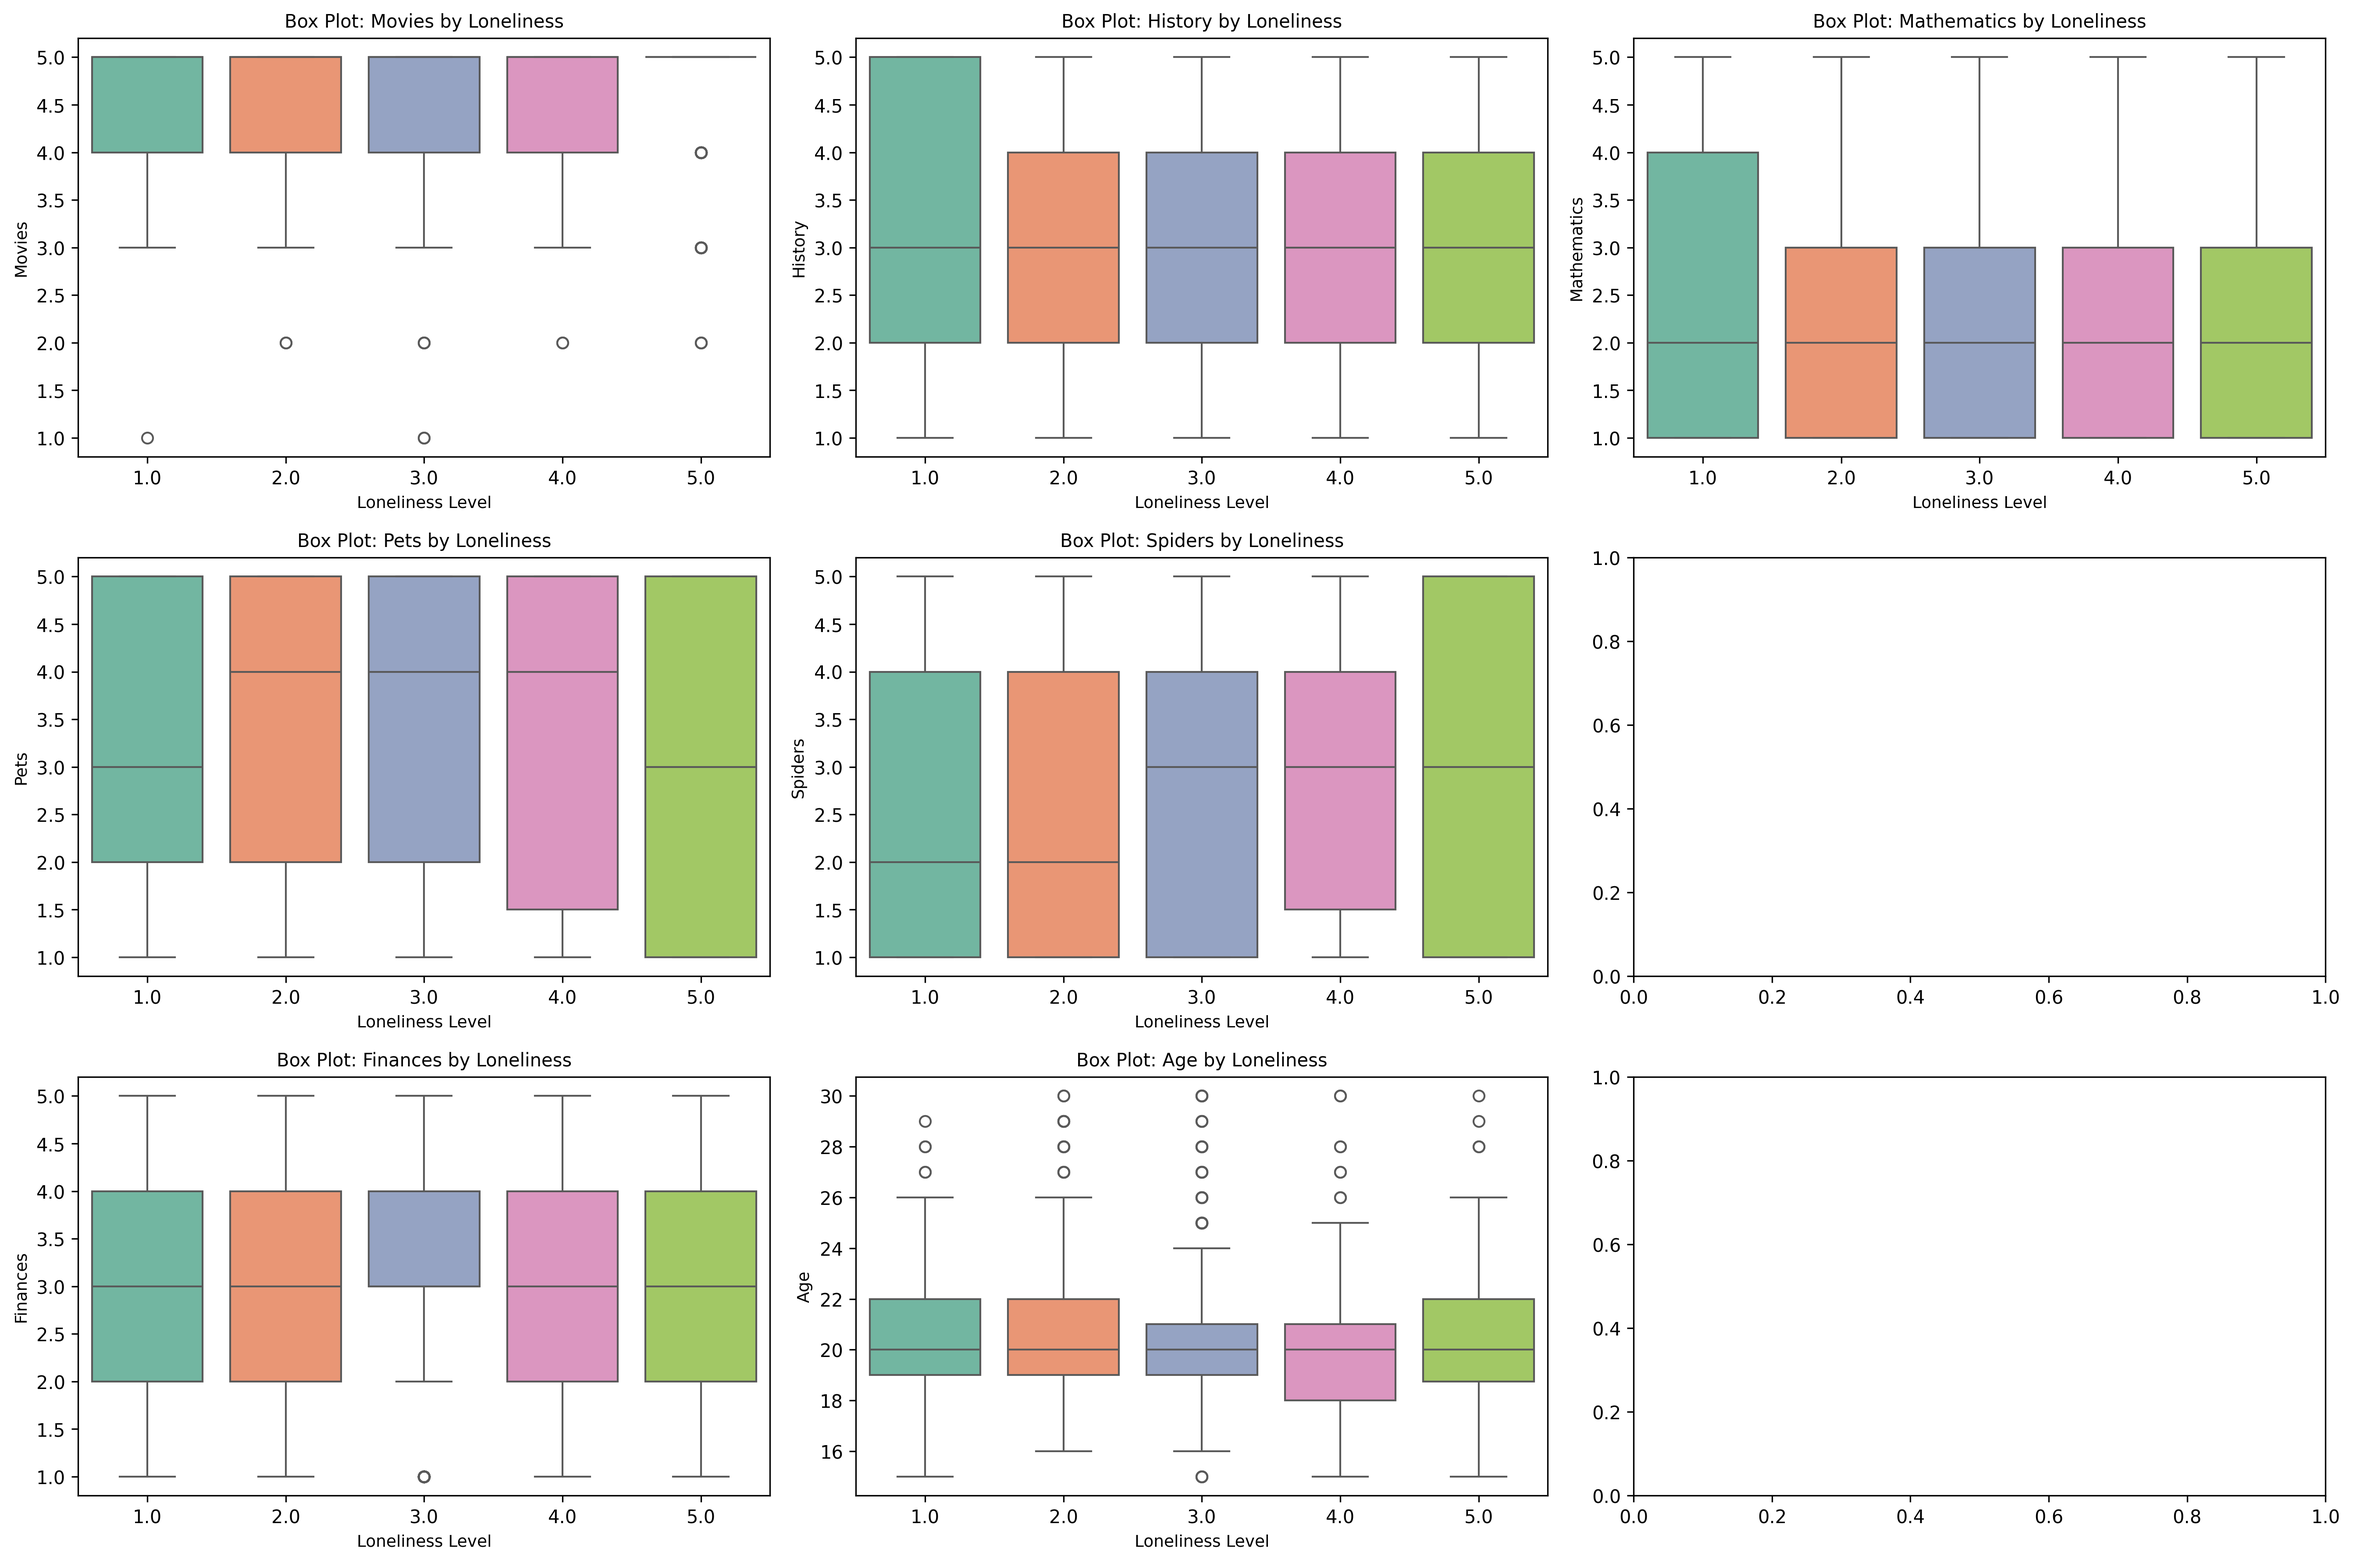
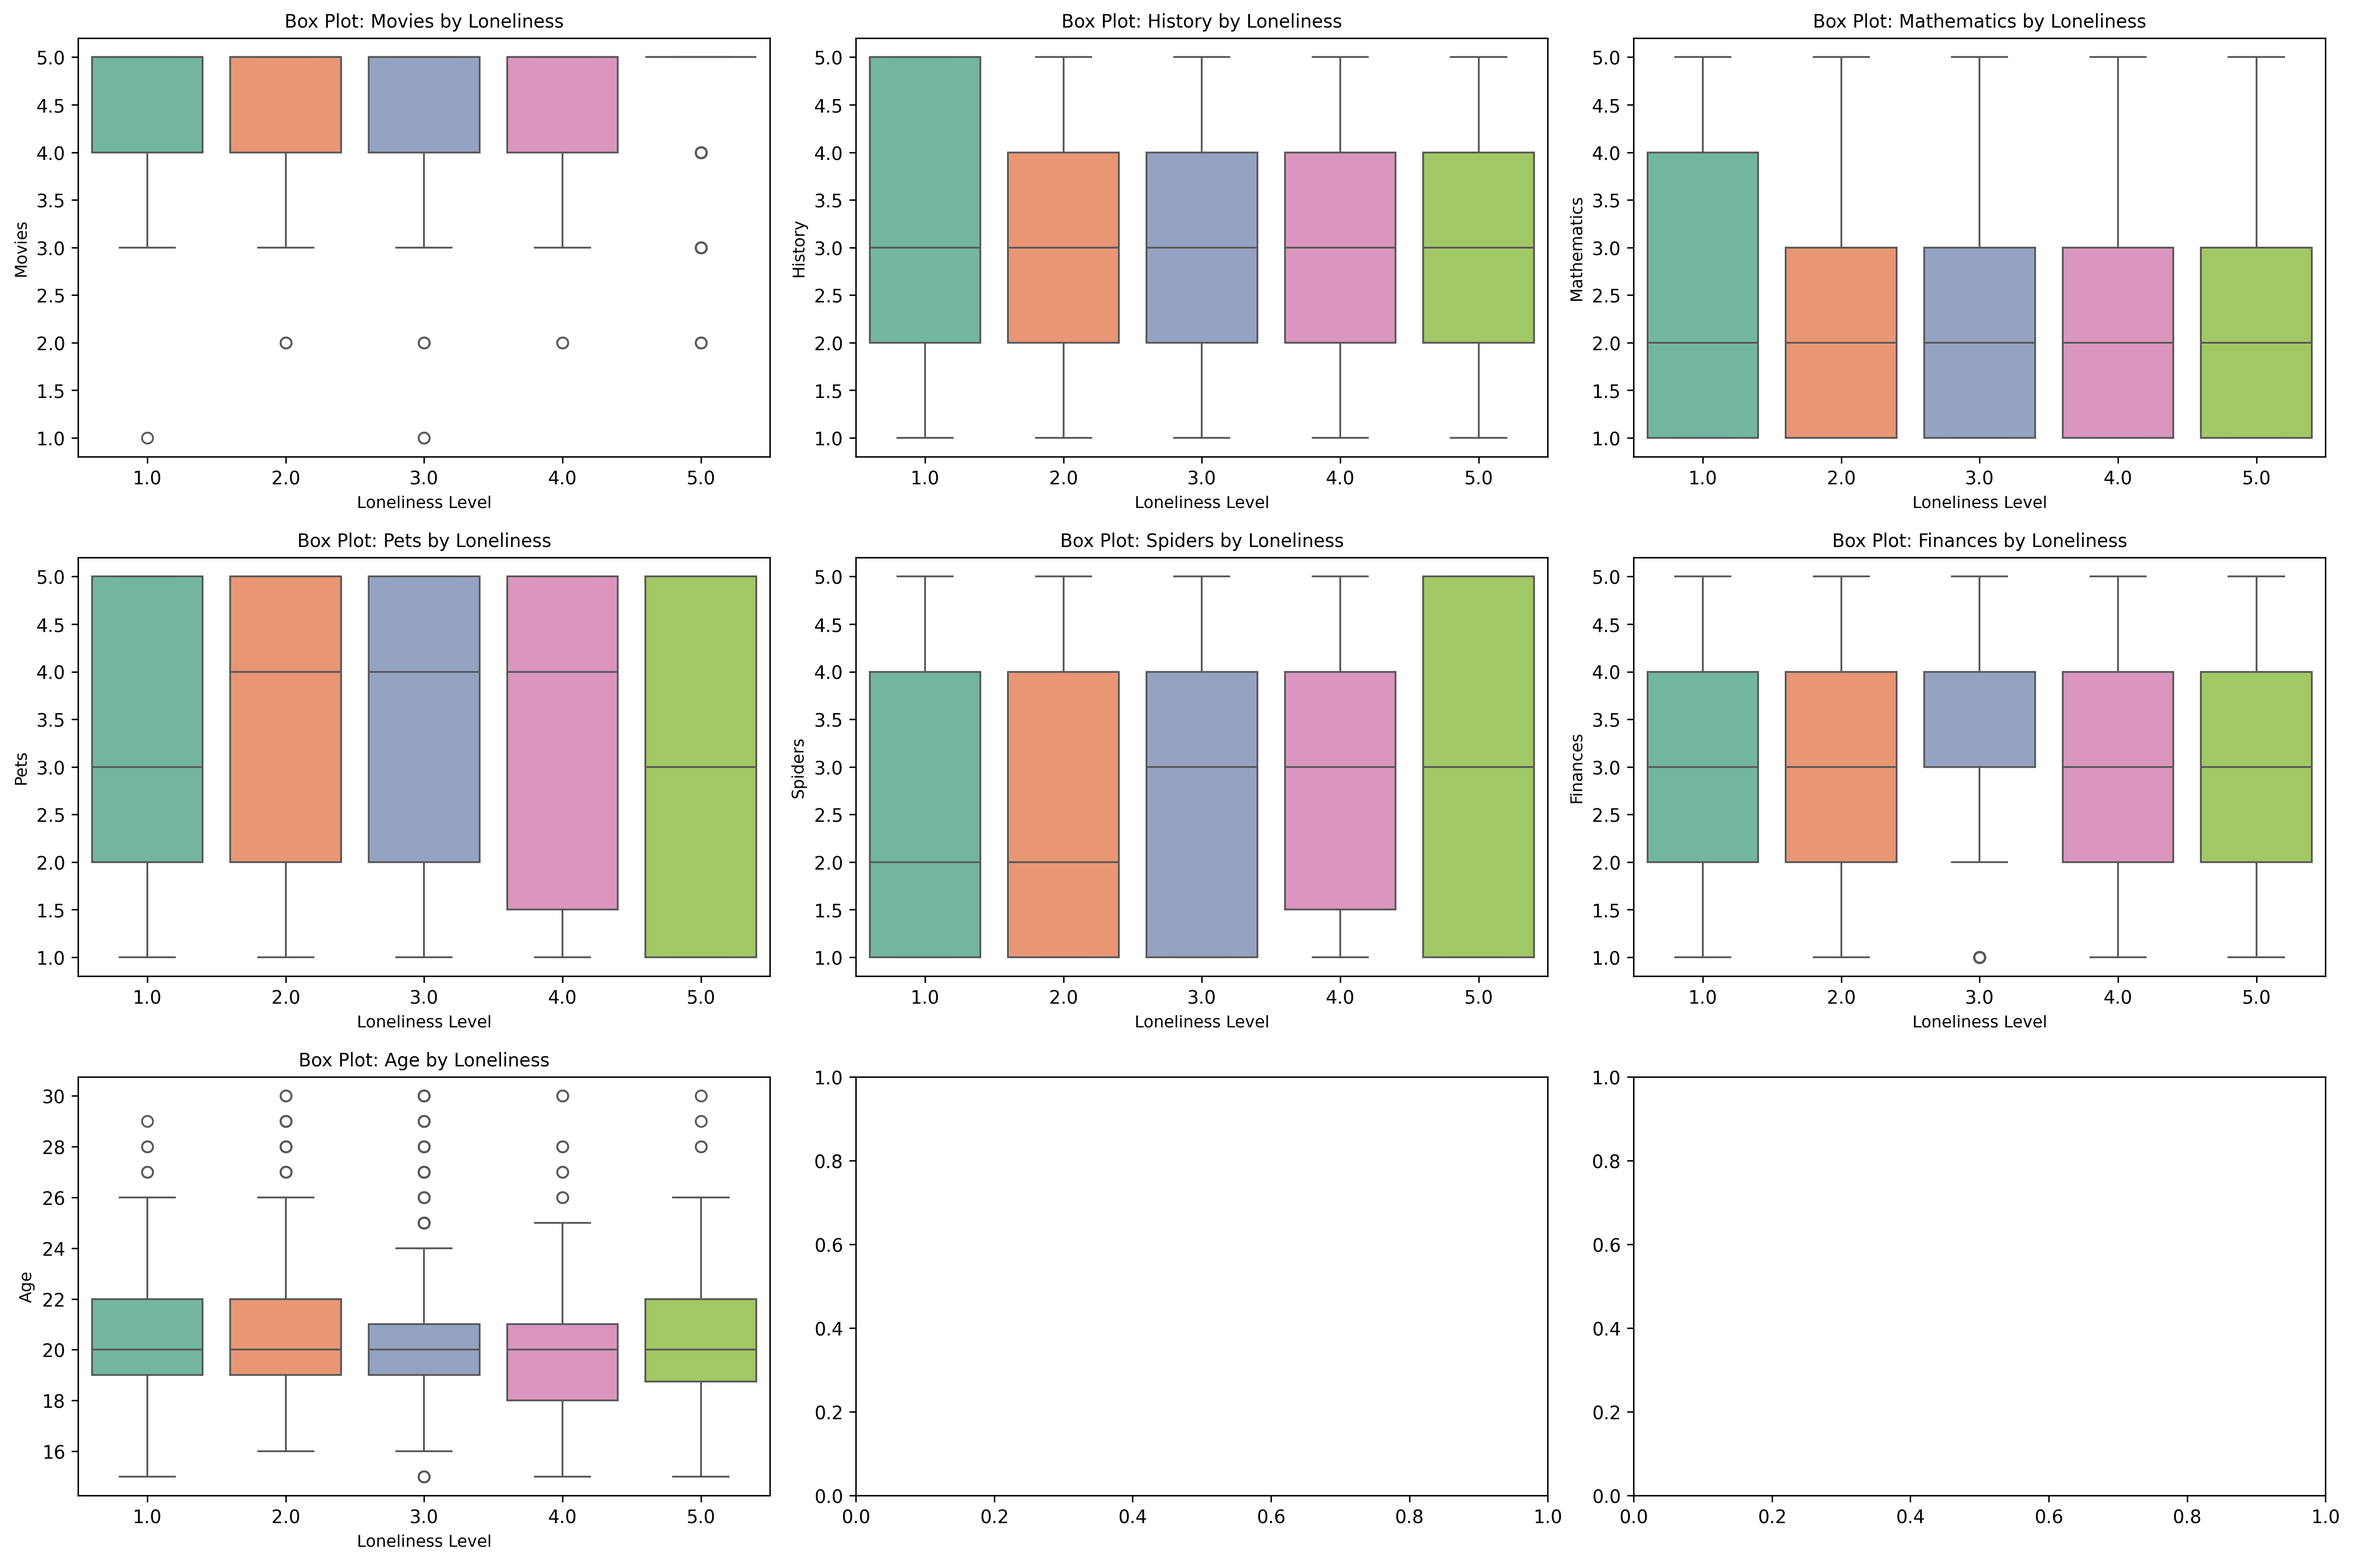
finished graphics for Part 1 and Part 2

diff --git a/main.py b/main.py
@@ -15,16 +15,18 @@ print(df.head())
 print(df.info())
 print(df.describe())
 
+# 2. Initial Data Quality
+# Table of null value counts
 print(df.isnull().sum())
 
-# 2. Initial Data Quality
-# Target Distribution (Loneliness)
+# Value counts for important categorical variables
 print("\n--- Village - town value counts ---")
 print(df["Village - town"].value_counts())
 
 print("\n--- Internet usage value counts ---")
 print(df["Internet usage"].value_counts())
 
+# Target Distribution (Loneliness)
 plt.figure(figsize=(8, 5))
 sns.countplot(x='Loneliness', data=df, color='skyblue')
 plt.title('Target Distribution: Loneliness Levels', fontsize=12)
@@ -42,10 +44,12 @@ plt.savefig('figures/initial-exploration/target_distribution.png')
 df = df.drop(columns=['Unnamed: 0', 'Music', "Parents' advice", 'Techno', 'Siblings'])
 # Key Numeric Variables: Movies, History, Mathematics, Pets, Spiders, Loneliness, Finances, Age
 # Key Categorical Variables: Internet usage, Gender, Village - town
+key_numeric = ['Movies', 'History', 'Mathematics', 'Pets', 'Spiders', 'Loneliness', 'Finances', 'Age']
+key_categorical = ['Internet usage', 'Gender', 'Village - town']
 
 
 # 1. Univariate Analysis
-key_numeric = ['Movies', 'History', 'Mathematics', 'Pets', 'Spiders', 'Loneliness', 'Finances', 'Age']
+# Numerical Histograms to show 
 for col in key_numeric:
     plt.figure(figsize=(8, 5))
     sns.countplot(x=col, data=df, color='skyblue')
@@ -56,7 +60,7 @@ for col in key_numeric:
     plt.savefig(f'figures/eda/numeric_{col.lower()}_distribution.png')
     plt.close()
 
-key_categorical = ['Internet usage', 'Gender', 'Village - town']
+# Categorical histograms to show frequency distribution
 for col in key_categorical:
     plt.figure(figsize=(8, 5))
     sns.countplot(x=col, data=df, color='coral')
@@ -70,23 +74,33 @@ for col in key_categorical:
 
 # 2. Multivariate Analysis
 # Box Plots grouped by Loneliness Level
-numeric_cols = df.select_dtypes(include=[np.number])
-n_cols = len(numeric_cols.columns)
-n_rows = (n_cols + 2) // 3
-fig, axes = plt.subplots(n_rows, 3, figsize=(18, n_rows * 4))
+plot_cols = [col for col in key_numeric if col != 'Loneliness']
+rows_of_figs = (len(plot_cols) + 2) // 3
+fig, axes = plt.subplots(rows_of_figs, 3, figsize=(18, rows_of_figs * 4))
 axes = axes.flatten()
-for idx, col in enumerate(numeric_cols.columns):
-    if col != 'Loneliness':
-        sns.boxplot(x='Loneliness', y=col, data=df, ax=axes[idx], hue='Loneliness', palette='Set2', legend=False)
-        axes[idx].set_title(f'Box Plot: {col} by Loneliness', fontsize=10)
-        axes[idx].set_xlabel('Loneliness Level', fontsize=9)
-        axes[idx].set_ylabel(col, fontsize=9)
+for idx, col in enumerate(plot_cols):
+    sns.boxplot(x='Loneliness', y=col, data=df, ax=axes[idx], hue='Loneliness', palette='Set2', legend=False)
+    axes[idx].set_title(f'Box Plot: {col} by Loneliness', fontsize=10)
+    axes[idx].set_xlabel('Loneliness Level', fontsize=9)
+    axes[idx].set_ylabel(col, fontsize=9)
 plt.tight_layout()
 plt.savefig('figures/eda/boxplots_by_loneliness.png', dpi=300, bbox_inches='tight')
 plt.close()
 
-# 3. Correlation Analysis
+# Bar Charts: Frequency Distributions by Loneliness Level
+fig, axes = plt.subplots(1, 3, figsize=(18, 5))
+for idx, col in enumerate(key_categorical):
+    sns.countplot(x=col, hue='Loneliness', data=df, ax=axes[idx], palette='Set2')
+    axes[idx].set_title(f'{col} by Loneliness Level', fontsize=11)
+    axes[idx].set_xlabel(col, fontsize=10)
+    axes[idx].set_ylabel('Count', fontsize=10)
+    axes[idx].legend(title='Loneliness', fontsize=8, title_fontsize=9)
+plt.tight_layout()
+plt.savefig('figures/eda/categorical_by_loneliness.png', dpi=300, bbox_inches='tight')
+plt.close()
 
+
+# 3. Correlation Analysis
 # Correlation Heatmap
 plt.figure(figsize=(20, 16))
 numeric_cols = df.select_dtypes(include=[np.number])
